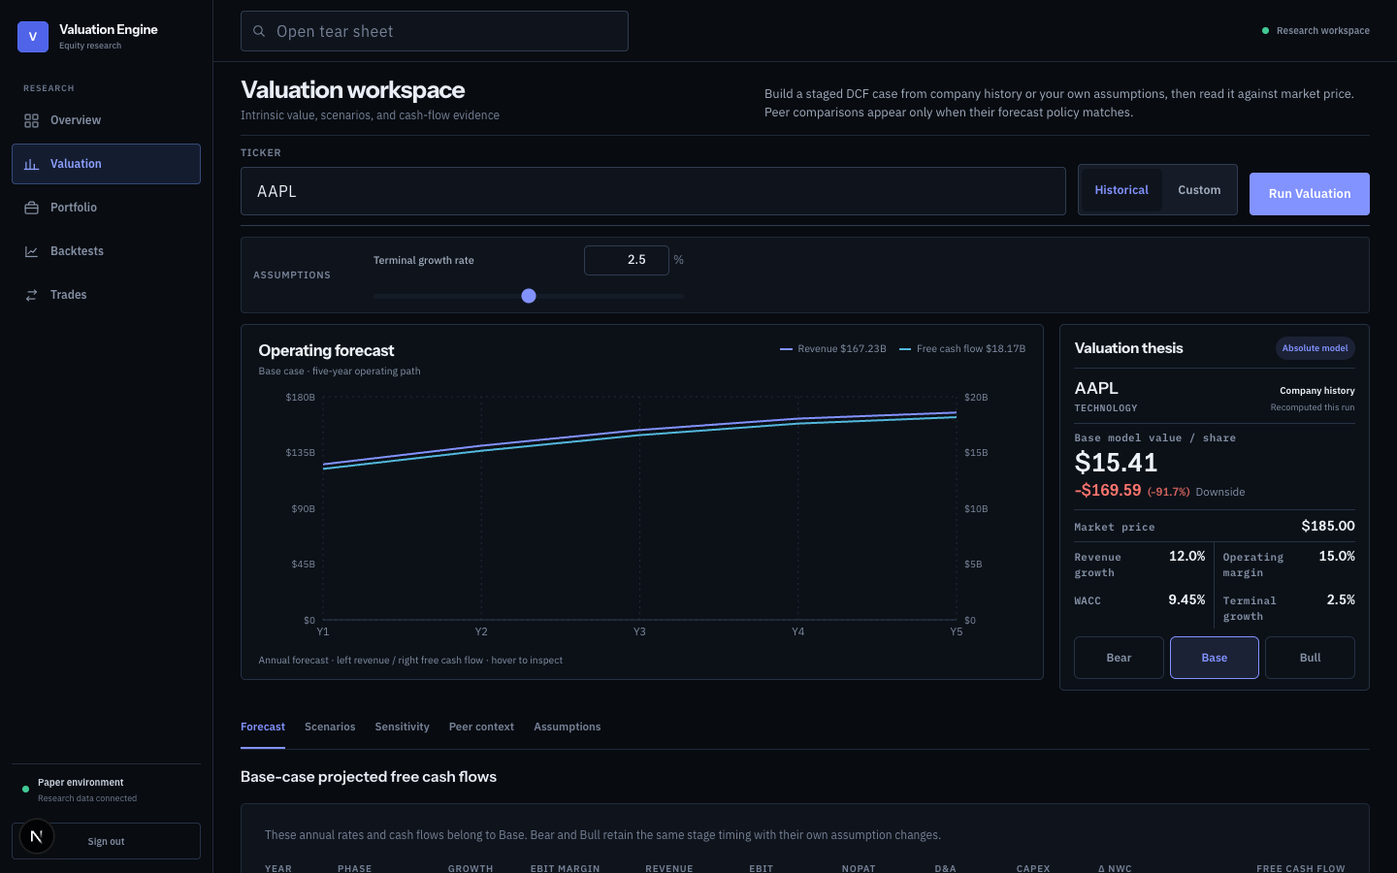
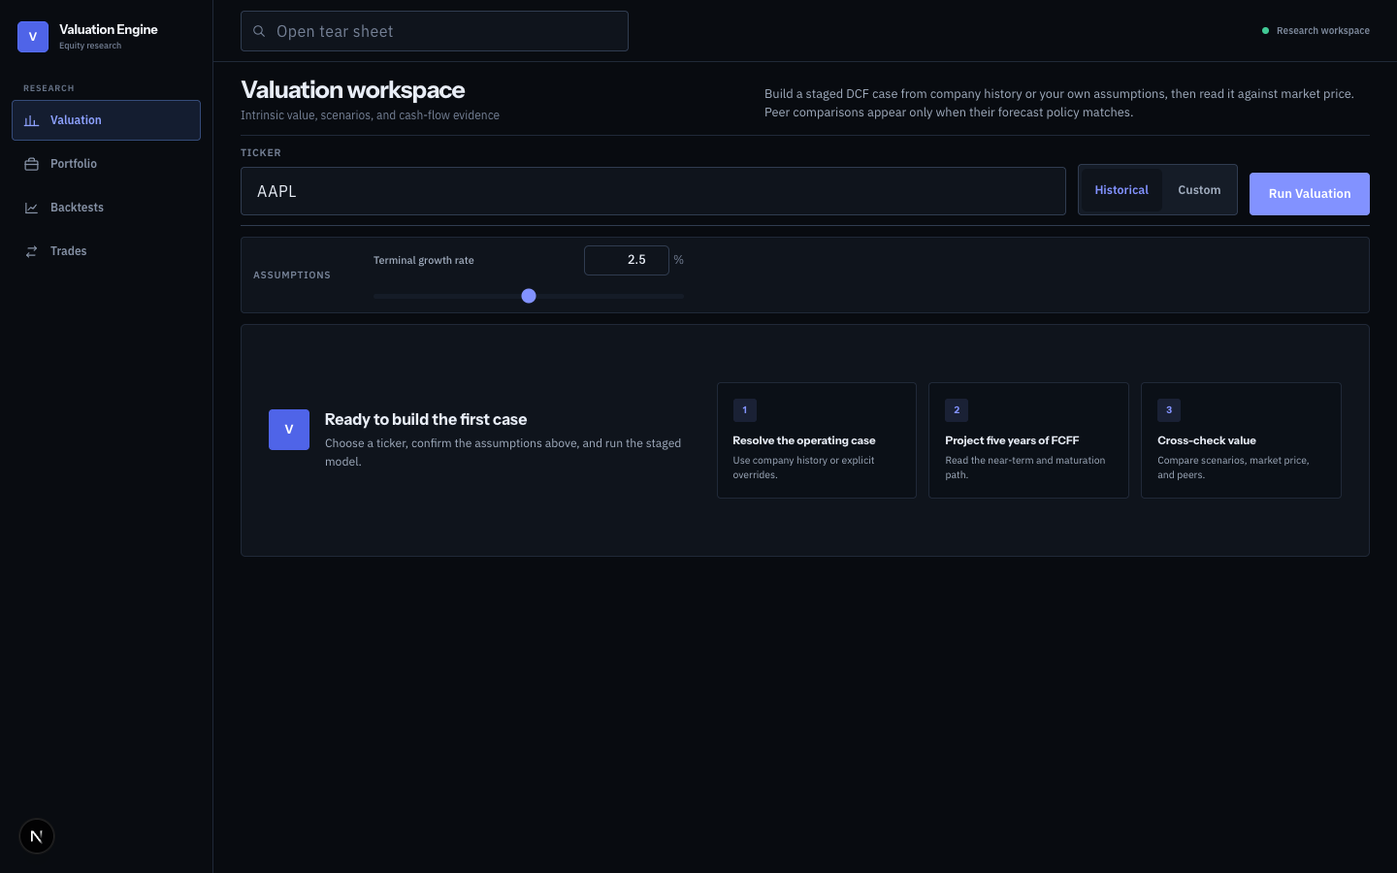
Open app directly in valuation workspace

diff --git a/frontend/src/components/AppHeader.tsx b/frontend/src/components/AppHeader.tsx
@@ -5,7 +5,7 @@ import Link from "next/link";
 import type { ReactNode } from "react";
 
 import SearchBar from "@/components/SearchBar";
-import { DEFAULT_OVERVIEW_PATH } from "@/lib/default-route";
+import { DEFAULT_APP_PATH } from "@/lib/default-route";
 import { isPublicRoute } from "@/lib/public-route";
 import styles from "./AppHeader.module.css";
 
@@ -13,12 +13,11 @@ interface NavItem {
   href: string;
   label: string;
   activePrefix?: string;
-  icon: "overview" | "valuation" | "portfolio" | "backtests" | "trades";
+  icon: "valuation" | "portfolio" | "backtests" | "trades";
 }
 
 const NAV_ITEMS: NavItem[] = [
-  { href: DEFAULT_OVERVIEW_PATH, label: "Overview", activePrefix: "/overview", icon: "overview" },
-  { href: "/workspace", label: "Valuation", icon: "valuation" },
+  { href: DEFAULT_APP_PATH, label: "Valuation", icon: "valuation" },
   { href: "/portfolio", label: "Portfolio", icon: "portfolio" },
   { href: "/backtests", label: "Backtests", icon: "backtests" },
   { href: "/trades", label: "Trades", icon: "trades" },
@@ -26,7 +25,6 @@ const NAV_ITEMS: NavItem[] = [
 
 function NavIcon({ name }: { name: NavItem["icon"] }) {
   const paths: Record<NavItem["icon"], ReactNode> = {
-    overview: <><rect x="3" y="3" width="7" height="7" rx="1"/><rect x="14" y="3" width="7" height="7" rx="1"/><rect x="3" y="14" width="7" height="7" rx="1"/><rect x="14" y="14" width="7" height="7" rx="1"/></>,
     valuation: <><path d="M4 19V9"/><path d="M10 19V5"/><path d="M16 19v-7"/><path d="M22 19H2"/></>,
     portfolio: <><rect x="3" y="7" width="18" height="13" rx="2"/><path d="M8 7V5a2 2 0 0 1 2-2h4a2 2 0 0 1 2 2v2"/><path d="M3 12h18"/></>,
     backtests: <><path d="M4 19V5"/><path d="M4 19h16"/><path d="m7 15 4-4 3 2 5-6"/></>,
@@ -53,7 +51,7 @@ export default function AppHeader() {
   return (
     <div className={styles.chrome} data-app-chrome>
       <aside className={styles.sidebar}>
-        <Link href={DEFAULT_OVERVIEW_PATH} className={styles.brand} aria-label="Valuation Engine overview home">
+        <Link href={DEFAULT_APP_PATH} className={styles.brand} aria-label="Open valuation workspace">
           <span className={styles.brandMark}>V</span>
           <span><strong>Valuation Engine</strong><small>Equity research</small></span>
         </Link>
@@ -63,15 +61,6 @@ export default function AppHeader() {
           {NAV_ITEMS.map((item) => <NavLink key={item.href} item={item} pathname={pathname} />)}
         </nav>
 
-        <div className={styles.sidebarFooter}>
-          <div className={styles.systemStatus}>
-            <span aria-hidden="true" />
-            <div><strong>Paper environment</strong><small>Research data connected</small></div>
-          </div>
-          <form action="/api/logout" method="post">
-            <button type="submit" className={styles.signOut}>Sign out</button>
-          </form>
-        </div>
       </aside>
 
       <header className={styles.topbar}>

diff --git a/frontend/src/lib/public-route.test.ts b/frontend/src/lib/public-route.test.ts
@@ -2,11 +2,11 @@ import assert from "node:assert/strict";
 import test from "node:test";
 
 import { isPublicRoute, publicRedirectPath } from "./public-route.ts";
-import { DEFAULT_OVERVIEW_PATH } from "./default-route.ts";
+import { DEFAULT_APP_PATH } from "./default-route.ts";
 
-test("the root path redirects to the research home page, not the curated public case", () => {
-  assert.equal(publicRedirectPath("/"), DEFAULT_OVERVIEW_PATH);
-  assert.equal(publicRedirectPath("/"), "/overview");
+test("the root path redirects directly to the valuation workspace", () => {
+  assert.equal(publicRedirectPath("/"), DEFAULT_APP_PATH);
+  assert.equal(publicRedirectPath("/"), "/workspace");
   assert.equal(publicRedirectPath("/workspace"), null);
   assert.equal(publicRedirectPath("/overview"), null);
   assert.equal(publicRedirectPath("/overview/MSFT"), null);
@@ -32,18 +32,18 @@ test("lookalike and private workspace paths remain private", () => {
   assert.equal(isPublicRoute("/api/evaluate/AAPL"), false);
 });
 
-test("the overview route is not classified as public — it must stay behind the session gate", () => {
+test("workspace and company overview routes stay behind the session gate", () => {
   assert.equal(isPublicRoute("/overview"), false);
   assert.equal(isPublicRoute("/overview/MSFT"), false);
-  assert.equal(isPublicRoute(DEFAULT_OVERVIEW_PATH), false);
+  assert.equal(isPublicRoute(DEFAULT_APP_PATH), false);
 });
 
 /**
  * Simulates proxy.ts's own decision tree using its real dependencies —
  * not a re-implementation of proxy.ts, just a trace through the two
  * pure functions it actually calls — to prove an unauthenticated
- * visitor's redirect chain among "/", "/login", "/overview", and
- * "/overview/MSFT" always terminates rather than cycling. Mirrors
+ * visitor's redirect chain among the root, workspace, login, and
+ * company overview always terminates rather than cycling. Mirrors
  * proxy.ts's exact order: a public-redirect hop first, then the
  * "/login or already-public, stop" check, otherwise (private,
  * unauthenticated) hop to "/login".
@@ -55,8 +55,8 @@ function nextHopForUnauthenticatedVisitor(pathname: string): string | null {
   return "/login";
 }
 
-test("no redirect loop among /, /login, /overview, and /overview/MSFT for an unauthenticated visitor", () => {
-  for (const start of ["/", "/overview", "/overview/MSFT", "/login"]) {
+test("no redirect loop among root, workspace, login, and company overview", () => {
+  for (const start of ["/", "/workspace", "/overview", "/overview/MSFT", "/login"]) {
     const visited = new Set<string>();
     let pathname = start;
     let hops = 0;

diff --git a/frontend/src/components/AppHeader.module.css b/frontend/src/components/AppHeader.module.css
@@ -11,14 +11,6 @@
 .navLink svg { width:17px; height:17px; flex:none; }
 .navLink:hover { border-color:#273246; background:#101620; color:#dfe6f1; }
 .navLink[aria-current="page"] { border-color:#354b79; background:#141d30; color:#8da1ff; }
-.sidebarFooter { margin-top:auto; display:grid; gap:8px; }
-.systemStatus { display:flex; align-items:center; gap:9px; padding:11px; border-top:1px solid #202938; }
-.systemStatus > span { width:7px; height:7px; border-radius:50%; background:#41c995; }
-.systemStatus strong,.systemStatus small { display:block; }
-.systemStatus strong { color:#cdd5e2; font-size:10px; font-weight:650; }
-.systemStatus small { margin-top:2px; color:#6f7c91; font-size:9px; }
-.signOut { width:100%; min-height:38px; border:1px solid #273246; border-radius:4px; color:#7d899d; font-size:10px; font-weight:600; }
-.signOut:hover { border-color:#425273; background:#101620; color:#a9b7d0; }
 .topbar { position:fixed; inset:0 0 auto var(--sidebar-width); z-index:40; height:var(--topbar-height); display:flex; align-items:center; gap:18px; padding:0 28px; border-bottom:1px solid #202938; background:#090c11; }
 .search { position:relative; width:min(400px,42vw); }
 .topMeta { margin-left:auto; display:flex; align-items:center; gap:8px; color:#7b879a; font:600 10px/1 var(--body); }
@@ -32,7 +24,7 @@
   .mobileBrand strong { color:#e8edf6; font-size:13px; }
   .search { margin-left:auto; width:min(270px,57vw); }
   .topMeta { display:none; }
-  .mobileNav { position:fixed; z-index:50; inset:auto 0 0; display:grid; grid-template-columns:repeat(5,1fr); padding:5px max(8px,env(safe-area-inset-right)) calc(5px + env(safe-area-inset-bottom)) max(8px,env(safe-area-inset-left)); border-top:1px solid #202938; background:#090c11; }
+  .mobileNav { position:fixed; z-index:50; inset:auto 0 0; display:grid; grid-template-columns:repeat(4,1fr); padding:5px max(8px,env(safe-area-inset-right)) calc(5px + env(safe-area-inset-bottom)) max(8px,env(safe-area-inset-left)); border-top:1px solid #202938; background:#090c11; }
   .mobileNav .navLink { min-width:0; min-height:50px; flex-direction:column; justify-content:center; gap:3px; padding:3px; color:#738096; font-size:9px; }
   .mobileNav .navLink[aria-current="page"] { border-color:#273a68; background:#121a2c; color:#8da1ff; }
   .mobileNav .navLink svg { width:17px; height:17px; }

diff --git a/frontend/src/lib/default-route.ts b/frontend/src/lib/default-route.ts
@@ -1,23 +1,9 @@
 /**
- * The default AUTHENTICATED landing destination for this dashboard —
- * where `/` resolves (see `public-route.ts`), where login lands when no
- * safe requested destination was preserved (see `login/actions.ts`),
- * and what the "Overview" nav item and the app logo point to (see
- * `AppHeader.tsx`). One shared constant so these call sites can never
- * drift from each other.
- *
- * This is the research HOME page (`frontend/src/app/overview/page.tsx`)
- * — summary cards, recent valuations, market context, and a model
- * explainer — not a specific company. The detailed, ticker-selectable
- * live overview lives at `/overview/{TICKER}` and is reached from the
- * home page's own ticker field or "Open overview" links, never as the
- * shared default landing destination itself (an earlier revision of
- * this dashboard defaulted straight to `/overview/${DEFAULT_OVERVIEW_TICKER}`
- * — see git history — which meant "/" always opened one arbitrarily
- * chosen company rather than an actual home screen).
+ * The default authenticated destination. The valuation workflow is the
+ * product's primary job, so root visits, successful logins without a
+ * preserved destination, and the brand link all open it directly.
  */
-
-export const DEFAULT_OVERVIEW_PATH = "/overview";
+export const DEFAULT_APP_PATH = "/workspace";
 
 /**
  * The fallback ticker for the home page's market-context module (news +

diff --git a/frontend/src/app/login/actions.ts b/frontend/src/app/login/actions.ts
@@ -7,7 +7,7 @@ import { createSessionToken, deriveSubkey, verifyPassword, SESSION_COOKIE_NAME }
 import { hashIdentifierWithSubkey, LOGIN_RATE_LIMIT_IDENTIFIER_LABEL } from "@/lib/client-identifier";
 import { incrementRateLimitCounter, resetRateLimitCounter } from "@/lib/redis";
 import { shouldFailOpenWhenRateLimiterUnavailable, FAIL_OPEN_OVERRIDE_ENV_VAR } from "@/lib/rate-limit-policy";
-import { DEFAULT_OVERVIEW_PATH } from "@/lib/default-route";
+import { DEFAULT_APP_PATH } from "@/lib/default-route";
 import { safeInternalRedirectPath } from "@/lib/safe-redirect";
 
 export interface LoginState {
@@ -134,6 +134,6 @@ export async function login(_prevState: LoginState, formData: FormData): Promise
   // crafted to point off-site. `safeInternalRedirectPath` returns the
   // exact value that was validated (never the raw, merely-checked
   // input) — this is what actually gets redirected to.
-  const destination = safeInternalRedirectPath(formData.get("next")) ?? DEFAULT_OVERVIEW_PATH;
+  const destination = safeInternalRedirectPath(formData.get("next")) ?? DEFAULT_APP_PATH;
   redirect(destination);
 }

diff --git a/frontend/src/app/overview/page.tsx b/frontend/src/app/overview/page.tsx
@@ -1,19 +1,8 @@
-import type { Metadata } from "next";
+import { redirect } from "next/navigation";
 
-import ResearchHomeClient from "./ResearchHomeClient";
+import { DEFAULT_APP_PATH } from "@/lib/default-route";
 
-export const metadata: Metadata = {
-  title: "Research Home | Valuation Engine",
-  description: "Summary cards, saved valuation history, and market context for the equity research desk.",
-};
-
-// The real authenticated landing destination (`DEFAULT_OVERVIEW_PATH`,
-// see `lib/default-route.ts`) — this used to redirect to a single
-// hardcoded company (`/overview/MSFT`) instead of being a home page in
-// its own right; see git history and that constant's own docstring.
-// Session protection is unaffected either way: this route isn't listed
-// in `PUBLIC_ROUTE_PREFIXES`, so `proxy.ts`'s default-deny still applies
-// before this component ever renders.
+// Preserve old bookmarks without keeping a redundant landing screen.
 export default function OverviewIndexPage() {
-  return <ResearchHomeClient />;
+  redirect(DEFAULT_APP_PATH);
 }

diff --git a/frontend/src/app/page.tsx b/frontend/src/app/page.tsx
@@ -1,17 +1,9 @@
 import { redirect } from "next/navigation";
 
-import { DEFAULT_OVERVIEW_PATH } from "@/lib/default-route";
+import { DEFAULT_APP_PATH } from "@/lib/default-route";
 
-// `/` is intercepted by `src/proxy.ts`'s own unconditional redirect
-// (`publicRedirectPath`) before this component would ever render for a
-// real request — this is defense in depth for that same target, mirroring
-// `overview/page.tsx`'s own bare-index redirect, for any path that
-// somehow reaches Next's router without going through proxy.ts first
-// (e.g. a future middleware matcher change).
-//
-// The actual valuation workflow lives at `/workspace`
-// (`frontend/src/app/workspace/`), not here — see that route's own
-// comment for why the two used to be the same file.
+// `proxy.ts` normally handles this redirect first. Keeping the route
+// redirect here provides the same destination if the matcher changes.
 export default function RootPage() {
-  redirect(DEFAULT_OVERVIEW_PATH);
+  redirect(DEFAULT_APP_PATH);
 }

diff --git a/frontend/src/lib/default-route.test.ts b/frontend/src/lib/default-route.test.ts
@@ -1,16 +1,13 @@
 import assert from "node:assert/strict";
 import test from "node:test";
 
-import { DEFAULT_OVERVIEW_PATH, DEFAULT_OVERVIEW_TICKER } from "./default-route.ts";
+import { DEFAULT_APP_PATH, DEFAULT_OVERVIEW_TICKER } from "./default-route.ts";
 
 test("DEFAULT_OVERVIEW_TICKER is MSFT", () => {
   assert.equal(DEFAULT_OVERVIEW_TICKER, "MSFT");
 });
 
-test("DEFAULT_OVERVIEW_PATH is the research home page, not a specific ticker", () => {
-  assert.equal(DEFAULT_OVERVIEW_PATH, "/overview");
-  // Deliberately NOT built from DEFAULT_OVERVIEW_TICKER — the home page is
-  // not a company page. See default-route.ts's own docstring for why an
-  // earlier revision of this constant was wrong to combine the two.
-  assert.notEqual(DEFAULT_OVERVIEW_PATH, `/overview/${DEFAULT_OVERVIEW_TICKER}`);
+test("DEFAULT_APP_PATH opens the valuation workflow directly", () => {
+  assert.equal(DEFAULT_APP_PATH, "/workspace");
+  assert.notEqual(DEFAULT_APP_PATH, `/overview/${DEFAULT_OVERVIEW_TICKER}`);
 });

diff --git a/frontend/src/lib/public-route.ts b/frontend/src/lib/public-route.ts
@@ -1,4 +1,4 @@
-import { DEFAULT_OVERVIEW_PATH } from "./default-route.ts";
+import { DEFAULT_APP_PATH } from "./default-route.ts";
 
 const PUBLIC_ROUTE_PREFIXES = ["/research", "/methodology"] as const;
 
@@ -10,7 +10,7 @@ const PUBLIC_ROUTE_PREFIXES = ["/research", "/methodology"] as const;
 // below); it just isn't where "/" sends visitors anymore. See
 // `default-route.ts` for the shared constant.
 export function publicRedirectPath(pathname: string): string | null {
-  return pathname === "/" ? DEFAULT_OVERVIEW_PATH : null;
+  return pathname === "/" ? DEFAULT_APP_PATH : null;
 }
 
 export function isPublicRoute(pathname: string): boolean {

diff --git a/frontend/src/proxy.ts b/frontend/src/proxy.ts
@@ -9,7 +9,7 @@ import { isPublicRoute, publicRedirectPath } from "@/lib/public-route";
  * `src/lib/auth.ts` for why a shared-passphrase session (rather than a
  * full auth library / user table) is the right scope here.
  *
- * `/` redirects to the default live overview (`default-route.ts`) —
+ * `/` redirects to the valuation workspace (`default-route.ts`) —
  * itself session-protected, same as every other page not explicitly
  * listed as public below. `/login`, curated `/research/*` cases, and
  * `/methodology` remain open; everything else requires a valid session

diff --git a/DESIGN.md b/DESIGN.md
@@ -124,9 +124,11 @@ Valuation Engine is an edge-to-edge institutional charting workspace: near-black
 
 TailAdmin V1/V2 and NextAdmin inform the information architecture only: persistent navigation, compact controls, clear grouping, and decision-first scanning. The visual world is darker, sharper, and flatter. Fine rules, tonal layering, tabular figures, and exact state feedback carry the hierarchy; ornament does not. Source visibility and honest financial distinctions remain part of the interface's visual discipline.
 
+Authenticated entry is deliberately direct: root visits, sign-ins without a preserved destination, the brand link, and old `/overview` bookmarks all open the valuation workspace. The former intermediary research-home dashboard is retired, keeping the operator's primary task one step closer without changing authentication or API protection.
+
 **Key Characteristics:**
 
-- A near-black 220px desktop rail and 64px utility bar meet the canvas edge-to-edge.
+- A near-black 220px desktop rail and 64px utility bar meet the canvas edge-to-edge; the rail holds four task routes and no session footer.
 - Blue-gray panels use fine borders, 4–5px structural corners, and no resting shadow.
 - Cool-white data ink and restrained supporting copy make dense research legible without becoming loud.
 - Periwinkle identifies actions, focus, active navigation, selected scenarios, and the primary forecast series.
@@ -179,7 +181,7 @@ The palette is a compact graphite stack with cool-white ink, one periwinkle inte
 ### Hierarchy
 
 - **Flagship:** the company overview title and its major section headings use Outfit at medium-to-semibold weight with tight tracking.
-- **Display:** workspace, home, panel, and instrument headings use Instrument Sans at 600–650 weight and compact leading.
+- **Display:** workspace, shell, panel, and instrument headings use Instrument Sans at 600–650 weight and compact leading.
 - **Body:** navigation, explanatory copy, state messages, and ordinary control labels use IBM Plex Sans at dense dashboard sizes with clear line-height.
 - **Data:** tickers, money, rates, percentages, and compact audit figures use IBM Plex Mono with tabular numerals.
 - **Label:** small uppercase labels use the body face at 600–650 weight with measured tracking. They identify fields and groups, but never repeat a nearby title as an ornamental kicker.
@@ -190,15 +192,17 @@ The palette is a compact graphite stack with cool-white ink, one periwinkle inte
 
 ## Layout
 
-The authenticated desktop shell uses a fixed 220px rail and a fixed 64px utility bar. The research home keeps a centered 1320px maximum field with 28px side gutters; the company overview can widen to 1480px for denser analysis. The chrome and canvas remain edge-to-edge—there is no rounded page sheet around the application.
+The authenticated desktop shell uses a fixed 220px rail and a fixed 64px utility bar. It enters directly into the valuation workspace: authenticated root visits, successful sign-ins without a preserved destination, the brand link, and `/overview` all resolve to `/workspace`. The retired research-home summary dashboard is not part of the active information architecture. The detailed company overview can still widen to 1480px for denser analysis. The chrome and canvas remain edge-to-edge—there is no rounded page sheet around the application.
 
-Home follows a decision sequence: title and ticker launcher, four compact summary cards, an 8/4 recent-work and market-context split, then the model process. The workspace places command and assumptions before a dominant analysis field. Its annual forecast pairs with a 320px sticky Thesis Rail, narrows the rail to 270px at intermediate widths, and stacks into one column at 900px and below.
+The workspace places command and assumptions before a dominant analysis field. Its annual forecast pairs with a 320px sticky Thesis Rail, narrows the rail to 270px at intermediate widths, and stacks into one column at 900px and below.
 
-At 820px the desktop rail yields to a 60px top bar and fixed five-item bottom navigation. Side gutters contract to 14px, then to 10px where the company overview requires it. Metrics collapse progressively while keeping the same reading order. Every authenticated page must remain free of page-level horizontal overflow at the 320px minimum width; locally scrollable data regions must advertise that behavior.
+At 820px the desktop rail yields to a 60px top bar and fixed four-item bottom navigation. Desktop and mobile expose the same four routes—Valuation, Portfolio, Backtests, and Trades—with four equal mobile columns. Side gutters contract to 14px, then to 10px where the company overview requires it. Metrics collapse progressively while keeping the same reading order. Every authenticated page must remain free of page-level horizontal overflow at the 320px minimum width; locally scrollable data regions must advertise that behavior.
 
 **The Decision-First Rule.** Keep the next action, selected scenario, primary value, and supporting evidence in the first operating field. Supporting schedules may stack or move behind tabs, but they do not outrank the decision surface.
 
 **The Edge-to-Edge Shell Rule.** Persistent chrome meets the viewport edges. Do not wrap the product in an artificial white sheet, floating desktop frame, or oversized outer radius.
+
+**The Direct-to-Work Rule.** The authenticated default is the valuation workspace. Do not place a summary dashboard or Overview route between entry and the operator's primary task.
 
 ## Elevation & Depth
 
@@ -241,8 +245,9 @@ Borders are one pixel and blue-gray. Line samples in chart legends stay square. 
 
 **Character:** a persistent route index with quiet default states and exact selection.
 
-- **Desktop:** a 220px near-black rail uses 42px icon-and-label rows. Hover adds a subtle blue-gray field and border; the active route uses a restrained periwinkle field, border, icon, and label.
-- **Mobile:** five routes move to a fixed near-black bottom bar with 50px targets. The utility bar remains fixed above the content.
+- **Desktop:** a 220px near-black rail uses 42px icon-and-label rows for exactly four routes: Valuation, Portfolio, Backtests, and Trades. Hover adds a subtle blue-gray field and border; the active route uses a restrained periwinkle field, border, icon, and label. The brand opens Valuation directly.
+- **Mobile:** the same four routes move to four equal columns in a fixed near-black bottom bar with 50px targets. The utility bar remains fixed above the content.
+- **Rail ending:** the task-route list is the end of the desktop rail. Do not reserve a sidebar footer for paper-environment status or sign-out controls.
 - **Status:** a small flat semantic dot may communicate connectivity; it never receives a halo or glow.
 
 ### Cards / Containers
@@ -280,6 +285,7 @@ Borders are one pixel and blue-gray. Line samples in chart legends stay square. 
 - **Do** keep financial values tabular, source and assumption provenance visible, and absolute valuation distinct from sector-relative context.
 - **Do** show Revenue and Free Cash Flow as honest annual dual-axis lines with a restrained grid and inspection crosshair.
 - **Do** preserve 44px primary touch targets, fixed mobile navigation, and usability without page-level overflow at 320px.
+- **Do** open authenticated entry, fallback sign-in, the brand link, and old `/overview` bookmarks in the valuation workspace; keep Valuation, Portfolio, Backtests, and Trades as the four primary routes on desktop and mobile.
 
 ### Don't:
 
@@ -290,3 +296,4 @@ Borders are one pixel and blue-gray. Line samples in chart legends stay square. 
 - **Don't** color Bear, Base, and Bull as favorable or unfavorable outcomes.
 - **Don't** fabricate candlesticks, intraday history, volume bars, or any chart encoding not supported by the annual model data.
 - **Don't** hide loading, empty, error, caution, or provenance states to make the workspace look populated.
+- **Don't** reintroduce the intermediary Overview dashboard, an Overview navigation item, or the paper-environment/sign-out sidebar footer.

diff --git a/.impeccable/surfaces/frontend-src-app-overview-researchhomeclient-tsx.md b/.impeccable/surfaces/frontend-src-app-overview-researchhomeclient-tsx.md
@@ -5,21 +5,21 @@ primary_target: "frontend/src/app/overview/ResearchHomeClient.tsx"
 related_targets: ["frontend/src/app/overview/ResearchHome.module.css","frontend/src/components/AppHeader.tsx","frontend/src/components/AppHeader.module.css"]
 ---
 
-# Research home
+# Retired research home
 
 Mode: Operate
 
-Audience: the private operator returning to valuation work. Job: start a valuation, recover recent browser-local work, and scan supplemental context without confusing it with model evidence. Primary action: open the valuation workspace. Constraints: use real saved history and real sentiment data only; preserve private/local semantics and all empty/loading/error states.
+The `/overview` index now redirects to `/workspace`. The former summary dashboard is intentionally not part of the active entry flow; this record remains only to explain the retired surface and prevent it from being reintroduced as a default landing page.
 
 ## Direction contract
 
-THESIS: The home is a calm valuation command center, not a generic KPI gallery: company, intrinsic value, market gap, recent work, context, and method appear in their decision order.
+THESIS: No intermediary dashboard is needed before the operator's primary task. Open the valuation workflow directly.
 
 OWN-WORLD: An edge-to-edge graphite professional shell with cool-white ink, restrained periwinkle controls, fine blue-gray dividers, sharp 4–5px radii, and semantic color used sparingly. Repeated modules feel labeled and operational without drifting into neon trading-terminal decoration.
 
-STORY: The operator launches a company, reads the latest valuation state, reopens recent work, scans non-model market context, and can verify how the model turns history into value.
+STORY: Root visits and the brand link lead directly to the valuation workspace; old `/overview` bookmarks follow the same route.
 
-FIRST VIEWPORT: A persistent 220px black navigation rail and 64px utility bar frame a title/ticker launcher, four compact summary cards, an 8/4 recent-work and market-context split, and the beginning of the model process strip. The chrome and canvas meet edge-to-edge, without a white sheet or artificial outer rounding.
+FIRST VIEWPORT: The first authenticated viewport is the valuation workspace. The navigation contains four task routes and no redundant Overview item or session-status footer.
 
 FORM: User-pinned TailAdmin V1/V2 and NextAdmin information architecture, revised by the user's explicit black-theme request. Seed b8aa9a83. Earlier light generated mocks are superseded critique references, not user-approved pixel specifications.
 
